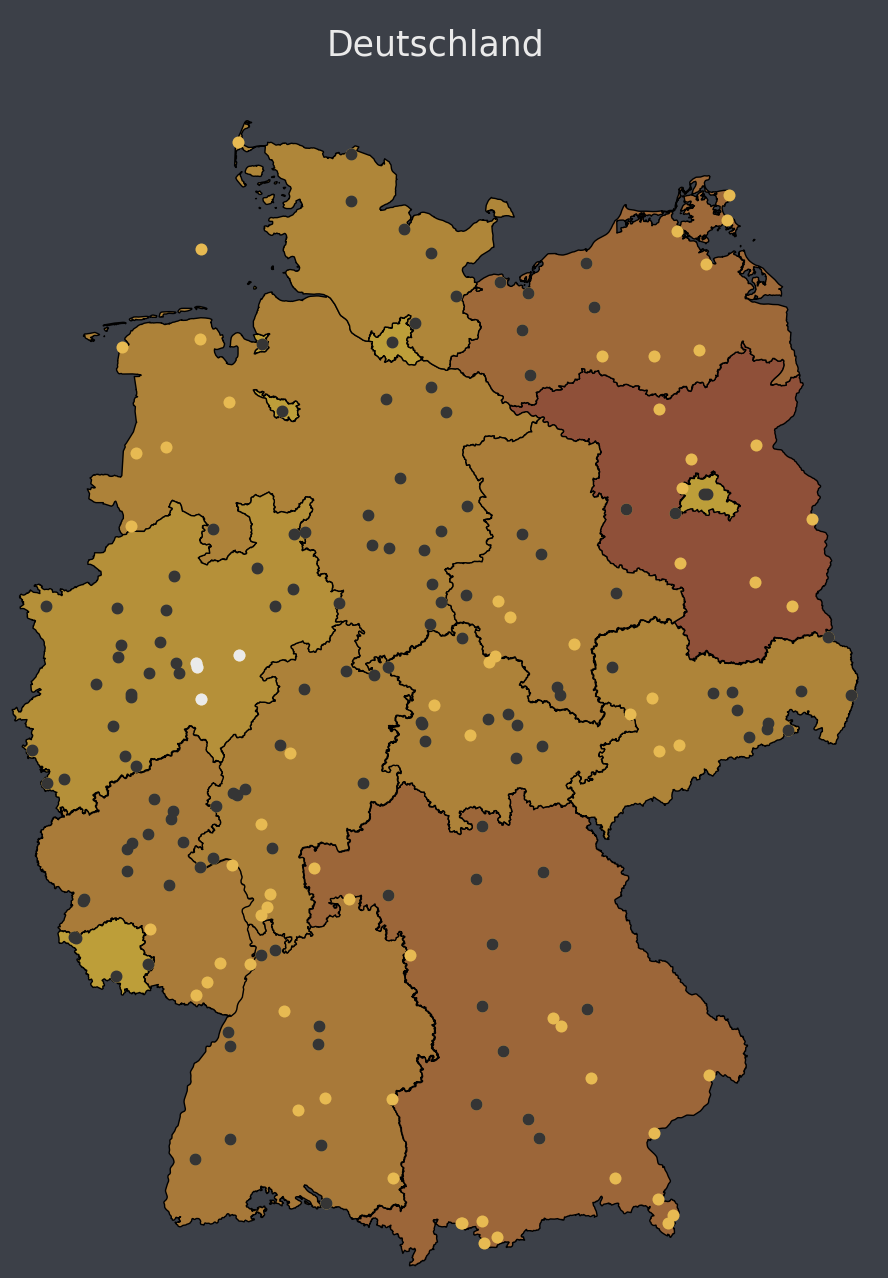
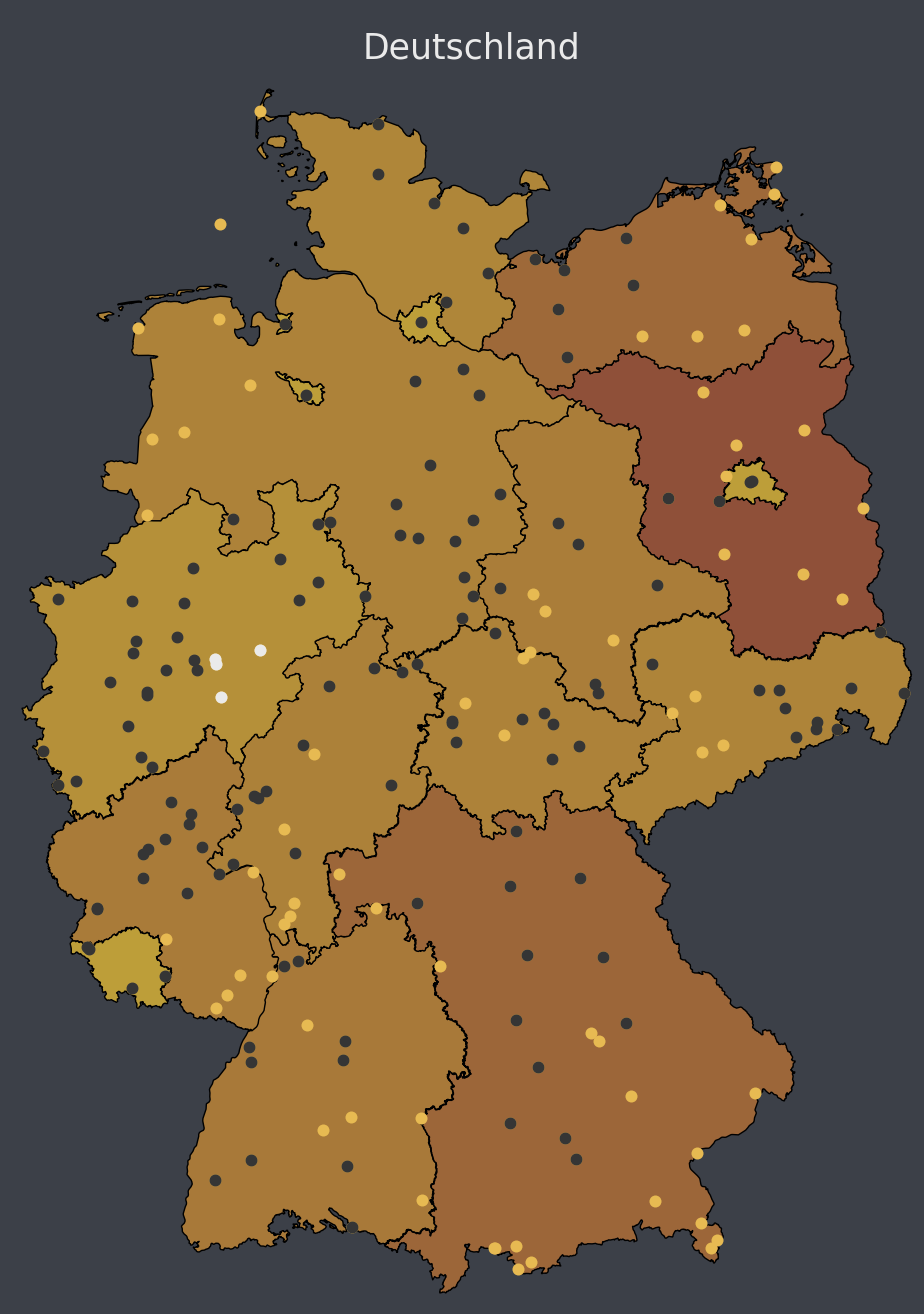
update germany plots

diff --git a/main.py b/main.py
@@ -13,16 +13,16 @@ from colormap import custom_cmap
 
 
 # Set global variables, directories for map creation and site locations
-SCALE = 5
+SCALE = 1
 
 # US National Park Global Variables
 #PATH = "us"
 
 # Germany Global Variables
-#PATH = "de"
+PATH = "de"
 
 # Europe Global Variables
-PATH = "eu"
+#PATH = "eu"
 
 # Load the JSON Meta-Data
 with open(PATH + '/meta_data.json', 'r') as f:
@@ -170,6 +170,7 @@ for index, row in points_gdf.iterrows():
             # Resize Plot
             with Image.open(f'./plots/temp/{PATH}_{current_date.strftime("%y%m%d")}.png') as image: # load the image
                 width, height = image.size # pull image size
+                #x1, y1, x2, y2 = 0, 0, 1, 1
                 if SCALE < 3:
                     x1, y1, x2, y2 = crop_s
                 else:
